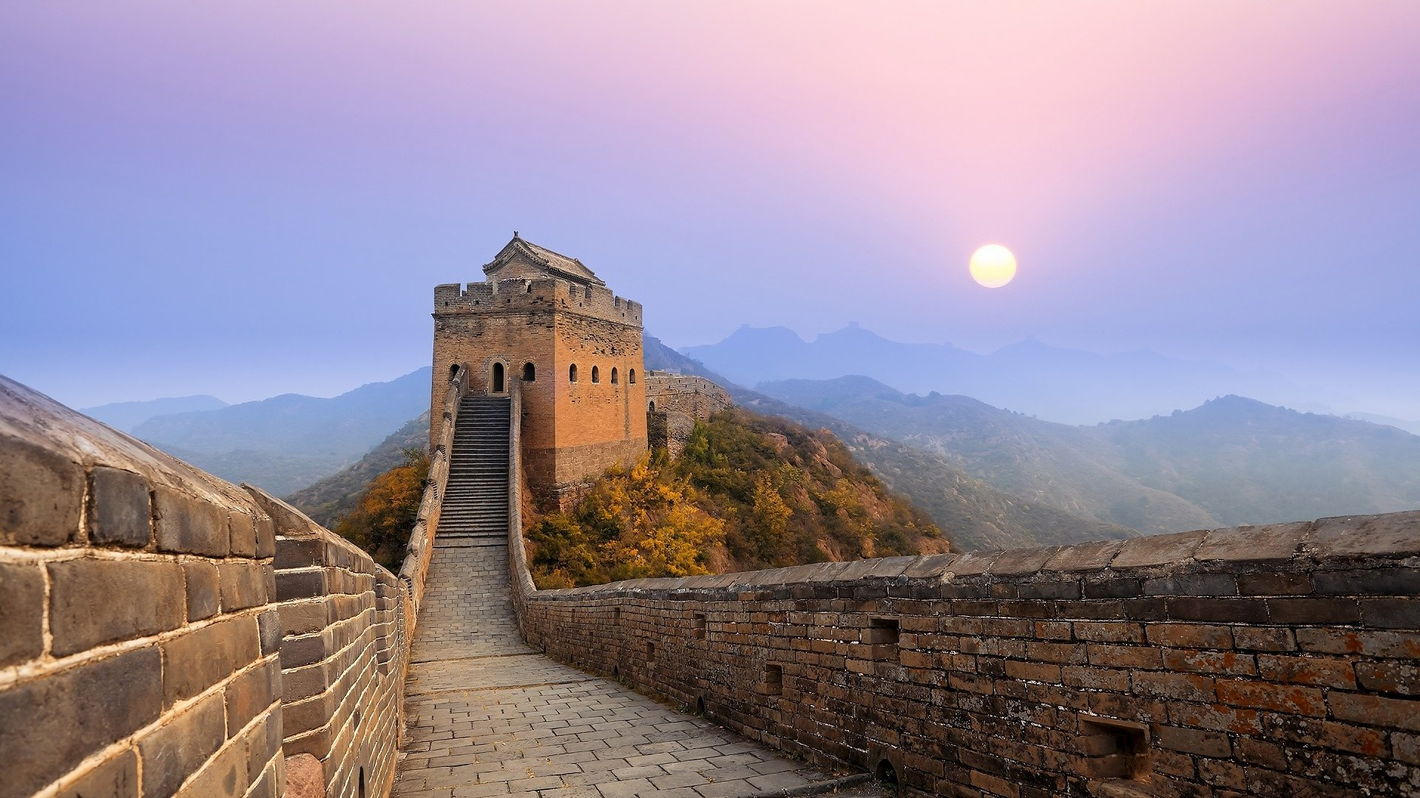
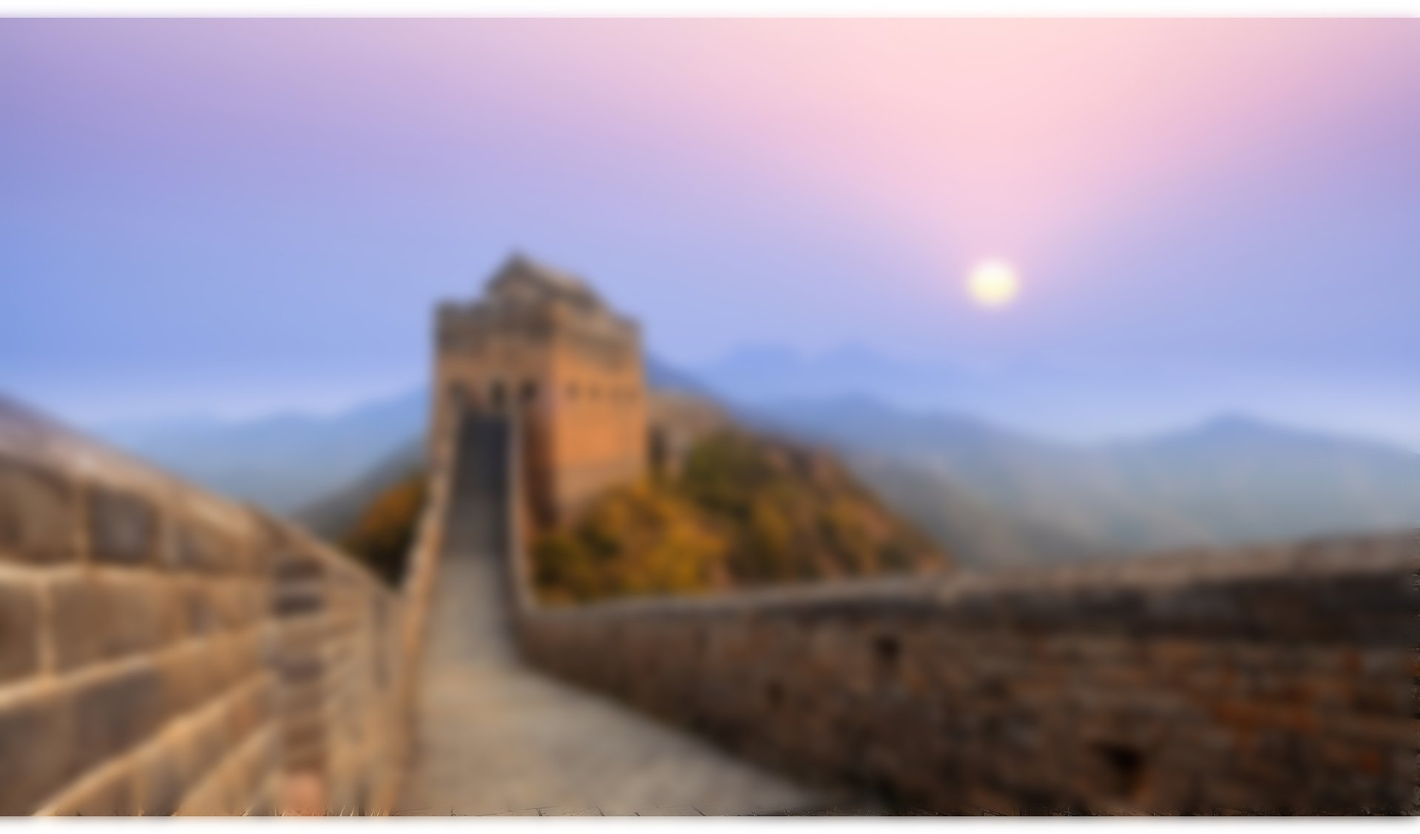
fix background

diff --git a/dist/css/style.min.css b/dist/css/style.min.css
@@ -1,1 +1,1 @@
-@import url(https://fonts.googleapis.com/css2?family=Roboto+Condensed:wght@300;400;700&display=swap);@import url(https://fonts.googleapis.com/css?family=Roboto:300,400,700&display=swap&subset=cyrillic-ext);*{box-sizing:border-box;margin:0;padding:0;font-family:Roboto,sans-serif}a{text-decoration:none}.container{max-width:1140px;margin:0 auto}.divider{padding-top:20px;border-bottom:1px solid #ec644b;width:148px;margin:0 auto}.button{width:160px;height:45px;background-color:#ec644b;border:none;border-radius:20px;font-size:12px;font-weight:400;text-transform:uppercase;color:#fff;cursor:pointer;transition:.45s all}.button:hover{background-color:#bb4732}.button-promo{display:block;border-radius:25px;font-size:15px;font-weight:700;width:230px;height:57px;margin:39px auto 81px}.button-price{display:block;width:160px;height:45px;margin:25px auto auto}.button-submit{position:relative;display:block;width:180px;height:45px;bottom:-20px;margin:0 auto;z-index:2}.title{padding-top:57px;text-align:center;font-size:26px;font-weight:700;text-transform:uppercase;color:#2e2e2e}.title-agent{padding-top:20px;text-transform:none;font-weight:700;color:#fff}.promo{position:relative;min-height:680px;overflow:hidden}.promo::before{content:"";position:absolute;left:-17px;right:-17px;top:-9px;bottom:-335px;z-index:-1;background:url(../img/preview_background.jpg) center/cover no-repeat;filter:blur(9px) brightness(30%)}.promo__slogan{font-size:24px;font-weight:300;color:#fff;text-align:center;padding-top:47px}.promo__title{font-family:"Roboto Condensed",sans-serif;font-size:72px;font-weight:700;text-transform:uppercase;color:#ec644b;padding-top:26px;text-align:center}.promo__subtitle{text-align:center;font-family:"Roboto Condensed",sans-serif;font-size:42px;font-weight:400;text-transform:uppercase;color:#fff}.promo__divider{display:flex;justify-content:center;align-items:center;padding-top:38px}.promo__leftLine{width:380px;border-bottom:1px solid #fff}.promo__rightLine{width:380px;border-bottom:1px solid #fff}.promo__circle{height:10px;width:10px;margin:0 12px 0 12px;background-color:#fff;border-radius:100%}.promo__icons{display:flex;justify-content:space-between;align-items:baseline}.promo__icon{min-height:150px;width:260px}.promo__icon img{display:block;margin:27px auto 0}.promo__descr{text-align:center;font-size:16px;line-height:22px;font-weight:300;color:#fff;padding-top:16px}.header{position:relative;padding-top:23px;display:flex;justify-content:space-between}.header__logo{width:96px;height:100px;cursor:pointer}.header__logo img{width:100%}.header__menu{display:flex;justify-content:space-between;padding:37px 30px;margin:0;list-style-type:none}.header__menu-item{border-right:1px dotted #74757a;padding:0 12px 0 12px}.header__menu-item:last-child{border:none}.header__menu-link{position:relative;font-size:15px;line-height:16px;font-weight:400;color:#fff;cursor:pointer}.header__menu-link:hover{color:#ec644b;transition:.35s}.header__menu-link::before{content:"";position:absolute;left:0;bottom:-5px;width:0;height:1.5px;transition:width .35s;background-color:#ec644b}.header__menu-link:hover:before{width:100%}.header__contacts{display:flex;justify-content:space-between;padding-top:25px}.header__questions{padding-right:19px}.header__call{font-size:14px;line-height:24px;font-weight:300;color:#fff;text-align:right}.header__phone{font-size:19px;line-height:24px;font-weight:700;color:#fff}.advantages{min-height:590px;background-color:#f3f3f3}.advantages__wrapper{display:grid;grid-template:repeat(3,minmax(33px,auto))/repeat(2,540px);grid-auto-rows:1fr;-moz-column-gap:50px;column-gap:50px;row-gap:37px;padding-top:30px}.advantages__item{display:grid;grid-template-columns:60px 462px;-moz-column-gap:17px;column-gap:17px}.advantages__subtitle{font-size:16px;font-weight:700;color:#ec644b;margin-bottom:5px}.advantages__text{font-size:14px;font-weight:300;color:#3a3a3a}.work{min-height:619px}.work__text{text-align:center;padding-top:17px;font-size:21px;font-weight:400;color:#2e2e2e}.work__wrapper{display:flex;justify-content:space-between;padding-top:37px}.work__item{width:360px}.work__subtitle{text-align:center;font-size:18px;font-weight:700;color:#ec644b;padding-top:20px}.work__descr{padding-top:10px;text-align:justify;font-size:14px;font-weight:400;color:#3a3a3a}.agent{position:relative;min-height:342px;overflow:hidden}.agent::before{content:"";position:absolute;left:-17px;right:-17px;top:-30px;bottom:-30px;z-index:-1;background:url(../img/agent_background.jpg) center/cover no-repeat;filter:blur(6px) brightness(40%)}.agent__icon{width:102px;height:102px;border:1px solid #fff;border-radius:100%;display:flex;justify-content:center;align-items:center;margin:58px auto auto}.agent__descr{text-align:center;padding-top:22px;font-size:19px;font-weight:300;color:#fff}.price{min-height:952px}.price__text{text-align:center;padding-top:17px;font-size:21px;font-weight:400;color:#2e2e2e}.price__content{display:grid;grid-template-columns:repeat(4,290px);margin-top:35px}.price-item{width:267px;height:357px;border:1px solid #e9e9e9}.price-item img{display:block;margin:9px auto auto}.price-item__header{width:267px;height:60px;background-color:#25333c}.price-item__shipping{padding-top:20px;font-size:16px;font-weight:700;text-transform:uppercase;color:#fff;text-align:center}.price-item__delivery{padding-top:10px;text-align:center;font-size:14px;font-weight:400;text-transform:uppercase;color:#2e2e2e}.price-item__cost{text-align:center;font-weight:400;font-size:28px;line-height:30px;text-transform:none;color:#ec644b}.price-item__descr{padding:20px 30px 0 30px;text-align:center;font-size:14px;font-weight:300;color:#2e2e2e}.price__subtitle{padding-top:55px;text-align:center;font-size:28px;font-weight:400;color:#3a3a3a}.price__form{position:relative;margin-top:71px;width:1140px;min-height:166px;border:1px solid #898989}.price__form::before{content:" ";position:absolute;top:186px;left:50%;transform:translateX(-50%);width:210px;height:10px;background-color:#fff;z-index:1}.price__form::after{content:" ";position:absolute;top:-10px;left:50%;transform:translateX(-50%);width:135px;height:10px;background-color:#fff;z-index:1}.price__form-wrapper{display:flex;justify-content:center;align-items:center}.price__form input{height:45px;width:270px;background-color:#fff;border-radius:50px;border:1px solid #898989;padding:0 20px;font-size:14px;margin-right:7px;margin-bottom:15px;margin-top:-20px;font-weight:300;color:#4b4b4b}.price__icon{position:relative;display:flex;justify-content:center;align-items:center;width:102px;height:102px;border:1px solid #ec644b;border-radius:100%;margin:0 auto;background-color:#fff;top:-50px;z-index:2}
+@import url(https://fonts.googleapis.com/css2?family=Roboto+Condensed:wght@300;400;700&display=swap);@import url(https://fonts.googleapis.com/css?family=Roboto:300,400,700&display=swap&subset=cyrillic-ext);*{box-sizing:border-box;margin:0;padding:0;font-family:Roboto,sans-serif}a{text-decoration:none}.container{max-width:1140px;margin:0 auto}.divider{padding-top:20px;border-bottom:1px solid #ec644b;width:148px;margin:0 auto}.button{width:160px;height:45px;background-color:#ec644b;border:none;border-radius:20px;font-size:12px;font-weight:400;text-transform:uppercase;color:#fff;cursor:pointer;transition:.45s all}.button:hover{background-color:#bb4732}.button-promo{display:block;border-radius:25px;font-size:15px;font-weight:700;width:230px;height:57px;margin:39px auto 81px}.button-price{display:block;width:160px;height:45px;margin:25px auto auto}.button-submit{position:relative;display:block;width:180px;height:45px;bottom:-20px;margin:0 auto;z-index:2}.title{padding-top:57px;text-align:center;font-size:26px;font-weight:700;text-transform:uppercase;color:#2e2e2e}.title-agent{padding-top:20px;text-transform:none;font-weight:700;color:#fff}.promo{position:relative;min-height:680px;overflow:hidden}.promo::before{content:"";position:absolute;left:0;right:0;top:0;bottom:-470px;z-index:-1;background:url(../img/preview_background.jpg) center/cover no-repeat;filter:brightness(30%)}.promo__slogan{font-size:24px;font-weight:300;color:#fff;text-align:center;padding-top:47px}.promo__title{font-family:"Roboto Condensed",sans-serif;font-size:72px;font-weight:700;text-transform:uppercase;color:#ec644b;padding-top:26px;text-align:center}.promo__subtitle{text-align:center;font-family:"Roboto Condensed",sans-serif;font-size:42px;font-weight:400;text-transform:uppercase;color:#fff}.promo__divider{display:flex;justify-content:center;align-items:center;padding-top:38px}.promo__leftLine{width:380px;border-bottom:1px solid #fff}.promo__rightLine{width:380px;border-bottom:1px solid #fff}.promo__circle{height:10px;width:10px;margin:0 12px 0 12px;background-color:#fff;border-radius:100%}.promo__icons{display:flex;justify-content:space-between;align-items:baseline}.promo__icon{min-height:150px;width:260px}.promo__icon img{display:block;margin:27px auto 0}.promo__descr{text-align:center;font-size:16px;line-height:22px;font-weight:300;color:#fff;padding-top:16px}.header{position:relative;padding-top:23px;display:flex;justify-content:space-between}.header__logo{width:96px;height:100px;cursor:pointer}.header__logo img{width:100%}.header__menu{display:flex;justify-content:space-between;padding:37px 30px;margin:0;list-style-type:none}.header__menu-item{border-right:1px dotted #74757a;padding:0 12px 0 12px}.header__menu-item:last-child{border:none}.header__menu-link{position:relative;font-size:15px;line-height:16px;font-weight:400;color:#fff;cursor:pointer}.header__menu-link:hover{color:#ec644b;transition:.35s}.header__menu-link::before{content:"";position:absolute;left:0;bottom:-5px;width:0;height:1.5px;transition:width .35s;background-color:#ec644b}.header__menu-link:hover:before{width:100%}.header__contacts{display:flex;justify-content:space-between;padding-top:25px}.header__questions{padding-right:19px}.header__call{font-size:14px;line-height:24px;font-weight:300;color:#fff;text-align:right}.header__phone{font-size:19px;line-height:24px;font-weight:700;color:#fff}.advantages{min-height:590px;background-color:#f3f3f3}.advantages__wrapper{display:grid;grid-template:repeat(3,minmax(33px,auto))/repeat(2,540px);grid-auto-rows:1fr;-moz-column-gap:50px;column-gap:50px;row-gap:37px;padding-top:30px}.advantages__item{display:grid;grid-template-columns:60px 462px;-moz-column-gap:17px;column-gap:17px}.advantages__subtitle{font-size:16px;font-weight:700;color:#ec644b;margin-bottom:5px}.advantages__text{font-size:14px;font-weight:300;color:#3a3a3a}.work{min-height:619px}.work__text{text-align:center;padding-top:17px;font-size:21px;font-weight:400;color:#2e2e2e}.work__wrapper{display:flex;justify-content:space-between;padding-top:37px}.work__item{width:360px}.work__subtitle{text-align:center;font-size:18px;font-weight:700;color:#ec644b;padding-top:20px}.work__descr{padding-top:10px;text-align:justify;font-size:14px;font-weight:400;color:#3a3a3a}.agent{position:relative;min-height:342px;overflow:hidden}.agent::before{content:"";position:absolute;left:0;right:0;top:0;bottom:0;z-index:-1;background:url(../img/agent_background.jpg) center/cover no-repeat;filter:brightness(40%)}.agent__icon{width:102px;height:102px;border:1px solid #fff;border-radius:100%;display:flex;justify-content:center;align-items:center;margin:58px auto auto}.agent__descr{text-align:center;padding-top:22px;font-size:19px;font-weight:300;color:#fff}.price{min-height:952px}.price__text{text-align:center;padding-top:17px;font-size:21px;font-weight:400;color:#2e2e2e}.price__content{display:grid;grid-template-columns:repeat(4,290px);margin-top:35px}.price-item{width:267px;height:357px;border:1px solid #e9e9e9}.price-item img{display:block;margin:9px auto auto}.price-item__header{width:267px;height:60px;background-color:#25333c}.price-item__shipping{padding-top:20px;font-size:16px;font-weight:700;text-transform:uppercase;color:#fff;text-align:center}.price-item__delivery{padding-top:10px;text-align:center;font-size:14px;font-weight:400;text-transform:uppercase;color:#2e2e2e}.price-item__cost{text-align:center;font-weight:400;font-size:28px;line-height:30px;text-transform:none;color:#ec644b}.price-item__descr{padding:20px 30px 0 30px;text-align:center;font-size:14px;font-weight:300;color:#2e2e2e}.price__subtitle{padding-top:55px;text-align:center;font-size:28px;font-weight:400;color:#3a3a3a}.price__form{position:relative;margin-top:71px;width:1140px;min-height:166px;border:1px solid #898989}.price__form::before{content:" ";position:absolute;top:186px;left:50%;transform:translateX(-50%);width:210px;height:10px;background-color:#fff;z-index:1}.price__form::after{content:" ";position:absolute;top:-10px;left:50%;transform:translateX(-50%);width:135px;height:10px;background-color:#fff;z-index:1}.price__form-wrapper{display:flex;justify-content:center;align-items:center}.price__form input{height:45px;width:270px;background-color:#fff;border-radius:50px;border:1px solid #898989;padding:0 20px;font-size:14px;margin-right:7px;margin-bottom:15px;margin-top:-20px;font-weight:300;color:#4b4b4b}.price__icon{position:relative;display:flex;justify-content:center;align-items:center;width:102px;height:102px;border:1px solid #ec644b;border-radius:100%;margin:0 auto;background-color:#fff;top:-50px;z-index:2}

diff --git a/src/css/style.min.css b/src/css/style.min.css
@@ -1,1 +1,1 @@
-@import url(https://fonts.googleapis.com/css2?family=Roboto+Condensed:wght@300;400;700&display=swap);@import url(https://fonts.googleapis.com/css?family=Roboto:300,400,700&display=swap&subset=cyrillic-ext);*{box-sizing:border-box;margin:0;padding:0;font-family:Roboto,sans-serif}a{text-decoration:none}.container{max-width:1140px;margin:0 auto}.divider{padding-top:20px;border-bottom:1px solid #ec644b;width:148px;margin:0 auto}.button{width:160px;height:45px;background-color:#ec644b;border:none;border-radius:20px;font-size:12px;font-weight:400;text-transform:uppercase;color:#fff;cursor:pointer;transition:.45s all}.button:hover{background-color:#bb4732}.button-promo{display:block;border-radius:25px;font-size:15px;font-weight:700;width:230px;height:57px;margin:39px auto 81px}.button-price{display:block;width:160px;height:45px;margin:25px auto auto}.button-submit{position:relative;display:block;width:180px;height:45px;bottom:-20px;margin:0 auto;z-index:2}.title{padding-top:57px;text-align:center;font-size:26px;font-weight:700;text-transform:uppercase;color:#2e2e2e}.title-agent{padding-top:20px;text-transform:none;font-weight:700;color:#fff}.promo{position:relative;min-height:680px;overflow:hidden}.promo::before{content:"";position:absolute;left:-17px;right:-17px;top:-9px;bottom:-335px;z-index:-1;background:url(../img/preview_background.jpg) center/cover no-repeat;filter:blur(9px) brightness(30%)}.promo__slogan{font-size:24px;font-weight:300;color:#fff;text-align:center;padding-top:47px}.promo__title{font-family:"Roboto Condensed",sans-serif;font-size:72px;font-weight:700;text-transform:uppercase;color:#ec644b;padding-top:26px;text-align:center}.promo__subtitle{text-align:center;font-family:"Roboto Condensed",sans-serif;font-size:42px;font-weight:400;text-transform:uppercase;color:#fff}.promo__divider{display:flex;justify-content:center;align-items:center;padding-top:38px}.promo__leftLine{width:380px;border-bottom:1px solid #fff}.promo__rightLine{width:380px;border-bottom:1px solid #fff}.promo__circle{height:10px;width:10px;margin:0 12px 0 12px;background-color:#fff;border-radius:100%}.promo__icons{display:flex;justify-content:space-between;align-items:baseline}.promo__icon{min-height:150px;width:260px}.promo__icon img{display:block;margin:27px auto 0}.promo__descr{text-align:center;font-size:16px;line-height:22px;font-weight:300;color:#fff;padding-top:16px}.header{position:relative;padding-top:23px;display:flex;justify-content:space-between}.header__logo{width:96px;height:100px;cursor:pointer}.header__logo img{width:100%}.header__menu{display:flex;justify-content:space-between;padding:37px 30px;margin:0;list-style-type:none}.header__menu-item{border-right:1px dotted #74757a;padding:0 12px 0 12px}.header__menu-item:last-child{border:none}.header__menu-link{position:relative;font-size:15px;line-height:16px;font-weight:400;color:#fff;cursor:pointer}.header__menu-link:hover{color:#ec644b;transition:.35s}.header__menu-link::before{content:"";position:absolute;left:0;bottom:-5px;width:0;height:1.5px;transition:width .35s;background-color:#ec644b}.header__menu-link:hover:before{width:100%}.header__contacts{display:flex;justify-content:space-between;padding-top:25px}.header__questions{padding-right:19px}.header__call{font-size:14px;line-height:24px;font-weight:300;color:#fff;text-align:right}.header__phone{font-size:19px;line-height:24px;font-weight:700;color:#fff}.advantages{min-height:590px;background-color:#f3f3f3}.advantages__wrapper{display:grid;grid-template:repeat(3,minmax(33px,auto))/repeat(2,540px);grid-auto-rows:1fr;-moz-column-gap:50px;column-gap:50px;row-gap:37px;padding-top:30px}.advantages__item{display:grid;grid-template-columns:60px 462px;-moz-column-gap:17px;column-gap:17px}.advantages__subtitle{font-size:16px;font-weight:700;color:#ec644b;margin-bottom:5px}.advantages__text{font-size:14px;font-weight:300;color:#3a3a3a}.work{min-height:619px}.work__text{text-align:center;padding-top:17px;font-size:21px;font-weight:400;color:#2e2e2e}.work__wrapper{display:flex;justify-content:space-between;padding-top:37px}.work__item{width:360px}.work__subtitle{text-align:center;font-size:18px;font-weight:700;color:#ec644b;padding-top:20px}.work__descr{padding-top:10px;text-align:justify;font-size:14px;font-weight:400;color:#3a3a3a}.agent{position:relative;min-height:342px;overflow:hidden}.agent::before{content:"";position:absolute;left:-17px;right:-17px;top:-30px;bottom:-30px;z-index:-1;background:url(../img/agent_background.jpg) center/cover no-repeat;filter:blur(6px) brightness(40%)}.agent__icon{width:102px;height:102px;border:1px solid #fff;border-radius:100%;display:flex;justify-content:center;align-items:center;margin:58px auto auto}.agent__descr{text-align:center;padding-top:22px;font-size:19px;font-weight:300;color:#fff}.price{min-height:952px}.price__text{text-align:center;padding-top:17px;font-size:21px;font-weight:400;color:#2e2e2e}.price__content{display:grid;grid-template-columns:repeat(4,290px);margin-top:35px}.price-item{width:267px;height:357px;border:1px solid #e9e9e9}.price-item img{display:block;margin:9px auto auto}.price-item__header{width:267px;height:60px;background-color:#25333c}.price-item__shipping{padding-top:20px;font-size:16px;font-weight:700;text-transform:uppercase;color:#fff;text-align:center}.price-item__delivery{padding-top:10px;text-align:center;font-size:14px;font-weight:400;text-transform:uppercase;color:#2e2e2e}.price-item__cost{text-align:center;font-weight:400;font-size:28px;line-height:30px;text-transform:none;color:#ec644b}.price-item__descr{padding:20px 30px 0 30px;text-align:center;font-size:14px;font-weight:300;color:#2e2e2e}.price__subtitle{padding-top:55px;text-align:center;font-size:28px;font-weight:400;color:#3a3a3a}.price__form{position:relative;margin-top:71px;width:1140px;min-height:166px;border:1px solid #898989}.price__form::before{content:" ";position:absolute;top:186px;left:50%;transform:translateX(-50%);width:210px;height:10px;background-color:#fff;z-index:1}.price__form::after{content:" ";position:absolute;top:-10px;left:50%;transform:translateX(-50%);width:135px;height:10px;background-color:#fff;z-index:1}.price__form-wrapper{display:flex;justify-content:center;align-items:center}.price__form input{height:45px;width:270px;background-color:#fff;border-radius:50px;border:1px solid #898989;padding:0 20px;font-size:14px;margin-right:7px;margin-bottom:15px;margin-top:-20px;font-weight:300;color:#4b4b4b}.price__icon{position:relative;display:flex;justify-content:center;align-items:center;width:102px;height:102px;border:1px solid #ec644b;border-radius:100%;margin:0 auto;background-color:#fff;top:-50px;z-index:2}
+@import url(https://fonts.googleapis.com/css2?family=Roboto+Condensed:wght@300;400;700&display=swap);@import url(https://fonts.googleapis.com/css?family=Roboto:300,400,700&display=swap&subset=cyrillic-ext);*{box-sizing:border-box;margin:0;padding:0;font-family:Roboto,sans-serif}a{text-decoration:none}.container{max-width:1140px;margin:0 auto}.divider{padding-top:20px;border-bottom:1px solid #ec644b;width:148px;margin:0 auto}.button{width:160px;height:45px;background-color:#ec644b;border:none;border-radius:20px;font-size:12px;font-weight:400;text-transform:uppercase;color:#fff;cursor:pointer;transition:.45s all}.button:hover{background-color:#bb4732}.button-promo{display:block;border-radius:25px;font-size:15px;font-weight:700;width:230px;height:57px;margin:39px auto 81px}.button-price{display:block;width:160px;height:45px;margin:25px auto auto}.button-submit{position:relative;display:block;width:180px;height:45px;bottom:-20px;margin:0 auto;z-index:2}.title{padding-top:57px;text-align:center;font-size:26px;font-weight:700;text-transform:uppercase;color:#2e2e2e}.title-agent{padding-top:20px;text-transform:none;font-weight:700;color:#fff}.promo{position:relative;min-height:680px;overflow:hidden}.promo::before{content:"";position:absolute;left:0;right:0;top:0;bottom:-470px;z-index:-1;background:url(../img/preview_background.jpg) center/cover no-repeat;filter:brightness(30%)}.promo__slogan{font-size:24px;font-weight:300;color:#fff;text-align:center;padding-top:47px}.promo__title{font-family:"Roboto Condensed",sans-serif;font-size:72px;font-weight:700;text-transform:uppercase;color:#ec644b;padding-top:26px;text-align:center}.promo__subtitle{text-align:center;font-family:"Roboto Condensed",sans-serif;font-size:42px;font-weight:400;text-transform:uppercase;color:#fff}.promo__divider{display:flex;justify-content:center;align-items:center;padding-top:38px}.promo__leftLine{width:380px;border-bottom:1px solid #fff}.promo__rightLine{width:380px;border-bottom:1px solid #fff}.promo__circle{height:10px;width:10px;margin:0 12px 0 12px;background-color:#fff;border-radius:100%}.promo__icons{display:flex;justify-content:space-between;align-items:baseline}.promo__icon{min-height:150px;width:260px}.promo__icon img{display:block;margin:27px auto 0}.promo__descr{text-align:center;font-size:16px;line-height:22px;font-weight:300;color:#fff;padding-top:16px}.header{position:relative;padding-top:23px;display:flex;justify-content:space-between}.header__logo{width:96px;height:100px;cursor:pointer}.header__logo img{width:100%}.header__menu{display:flex;justify-content:space-between;padding:37px 30px;margin:0;list-style-type:none}.header__menu-item{border-right:1px dotted #74757a;padding:0 12px 0 12px}.header__menu-item:last-child{border:none}.header__menu-link{position:relative;font-size:15px;line-height:16px;font-weight:400;color:#fff;cursor:pointer}.header__menu-link:hover{color:#ec644b;transition:.35s}.header__menu-link::before{content:"";position:absolute;left:0;bottom:-5px;width:0;height:1.5px;transition:width .35s;background-color:#ec644b}.header__menu-link:hover:before{width:100%}.header__contacts{display:flex;justify-content:space-between;padding-top:25px}.header__questions{padding-right:19px}.header__call{font-size:14px;line-height:24px;font-weight:300;color:#fff;text-align:right}.header__phone{font-size:19px;line-height:24px;font-weight:700;color:#fff}.advantages{min-height:590px;background-color:#f3f3f3}.advantages__wrapper{display:grid;grid-template:repeat(3,minmax(33px,auto))/repeat(2,540px);grid-auto-rows:1fr;-moz-column-gap:50px;column-gap:50px;row-gap:37px;padding-top:30px}.advantages__item{display:grid;grid-template-columns:60px 462px;-moz-column-gap:17px;column-gap:17px}.advantages__subtitle{font-size:16px;font-weight:700;color:#ec644b;margin-bottom:5px}.advantages__text{font-size:14px;font-weight:300;color:#3a3a3a}.work{min-height:619px}.work__text{text-align:center;padding-top:17px;font-size:21px;font-weight:400;color:#2e2e2e}.work__wrapper{display:flex;justify-content:space-between;padding-top:37px}.work__item{width:360px}.work__subtitle{text-align:center;font-size:18px;font-weight:700;color:#ec644b;padding-top:20px}.work__descr{padding-top:10px;text-align:justify;font-size:14px;font-weight:400;color:#3a3a3a}.agent{position:relative;min-height:342px;overflow:hidden}.agent::before{content:"";position:absolute;left:0;right:0;top:0;bottom:0;z-index:-1;background:url(../img/agent_background.jpg) center/cover no-repeat;filter:brightness(40%)}.agent__icon{width:102px;height:102px;border:1px solid #fff;border-radius:100%;display:flex;justify-content:center;align-items:center;margin:58px auto auto}.agent__descr{text-align:center;padding-top:22px;font-size:19px;font-weight:300;color:#fff}.price{min-height:952px}.price__text{text-align:center;padding-top:17px;font-size:21px;font-weight:400;color:#2e2e2e}.price__content{display:grid;grid-template-columns:repeat(4,290px);margin-top:35px}.price-item{width:267px;height:357px;border:1px solid #e9e9e9}.price-item img{display:block;margin:9px auto auto}.price-item__header{width:267px;height:60px;background-color:#25333c}.price-item__shipping{padding-top:20px;font-size:16px;font-weight:700;text-transform:uppercase;color:#fff;text-align:center}.price-item__delivery{padding-top:10px;text-align:center;font-size:14px;font-weight:400;text-transform:uppercase;color:#2e2e2e}.price-item__cost{text-align:center;font-weight:400;font-size:28px;line-height:30px;text-transform:none;color:#ec644b}.price-item__descr{padding:20px 30px 0 30px;text-align:center;font-size:14px;font-weight:300;color:#2e2e2e}.price__subtitle{padding-top:55px;text-align:center;font-size:28px;font-weight:400;color:#3a3a3a}.price__form{position:relative;margin-top:71px;width:1140px;min-height:166px;border:1px solid #898989}.price__form::before{content:" ";position:absolute;top:186px;left:50%;transform:translateX(-50%);width:210px;height:10px;background-color:#fff;z-index:1}.price__form::after{content:" ";position:absolute;top:-10px;left:50%;transform:translateX(-50%);width:135px;height:10px;background-color:#fff;z-index:1}.price__form-wrapper{display:flex;justify-content:center;align-items:center}.price__form input{height:45px;width:270px;background-color:#fff;border-radius:50px;border:1px solid #898989;padding:0 20px;font-size:14px;margin-right:7px;margin-bottom:15px;margin-top:-20px;font-weight:300;color:#4b4b4b}.price__icon{position:relative;display:flex;justify-content:center;align-items:center;width:102px;height:102px;border:1px solid #ec644b;border-radius:100%;margin:0 auto;background-color:#fff;top:-50px;z-index:2}

diff --git a/src/sass/style.css b/src/sass/style.css
@@ -75,13 +75,13 @@ a {
   .promo::before {
     content: '';
     position: absolute;
-    left: -17px;
-    right: -17px;
-    top: -9px;
-    bottom: -335px;
+    left: 0;
+    right: 0;
+    top: 0;
+    bottom: -470px;
     z-index: -1;
     background: url(../img/preview_background.jpg) center/cover no-repeat;
-    filter: blur(9px) brightness(30%); }
+    filter: brightness(30%); }
   .promo__slogan {
     font-size: 24px;
     font-weight: 300;
@@ -257,13 +257,13 @@ a {
   .agent::before {
     content: '';
     position: absolute;
-    left: -17px;
-    right: -17px;
-    top: -30px;
-    bottom: -30px;
+    left: 0;
+    right: 0;
+    top: 0;
+    bottom: 0;
     z-index: -1;
     background: url(../img/agent_background.jpg) center/cover no-repeat;
-    filter: blur(6px) brightness(40%); }
+    filter: brightness(40%); }
   .agent__icon {
     width: 102px;
     height: 102px;

diff --git a/src/sass/blocks/_promo.scss b/src/sass/blocks/_promo.scss
@@ -5,13 +5,13 @@
   &::before {
     content: '';
     position: absolute;
-    left: -17px;
-    right: -17px;
-    top: -9px;
-    bottom: -335px;
+    left: 0;
+    right: 0;
+    top: 0;
+    bottom: -470px;
     z-index: -1;
     background: url(../img/preview_background.jpg) center / cover no-repeat;
-    filter: blur(9px) brightness(30%);
+    filter: brightness(30%);
   }
   &__slogan {
     font-size: 24px;

diff --git a/src/sass/blocks/_agent.scss b/src/sass/blocks/_agent.scss
@@ -5,13 +5,13 @@
   &::before {
     content: '';
     position: absolute;
-    left: -17px;
-    right: -17px;
-    top: -30px;
-    bottom: -30px;
+    left: 0;
+    right: 0;
+    top: 0;
+    bottom: 0;
     z-index: -1;
     background: url(../img/agent_background.jpg) center / cover no-repeat;
-    filter: blur(6px) brightness(40%);
+    filter: brightness(40%);
   }
   &__icon {
     width: 102px;
